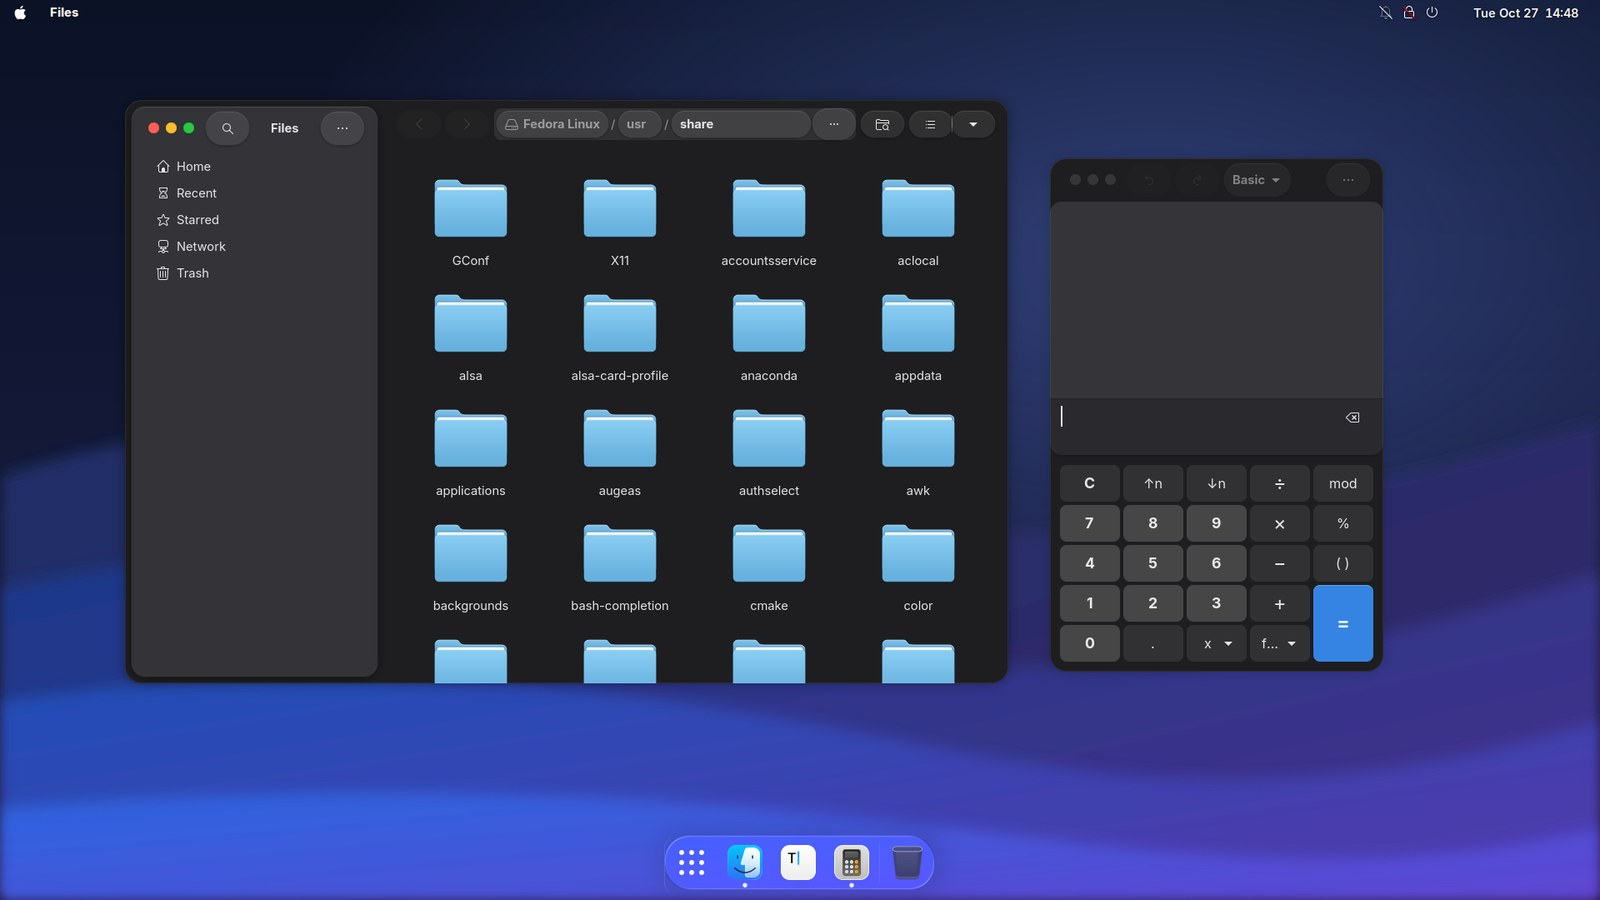
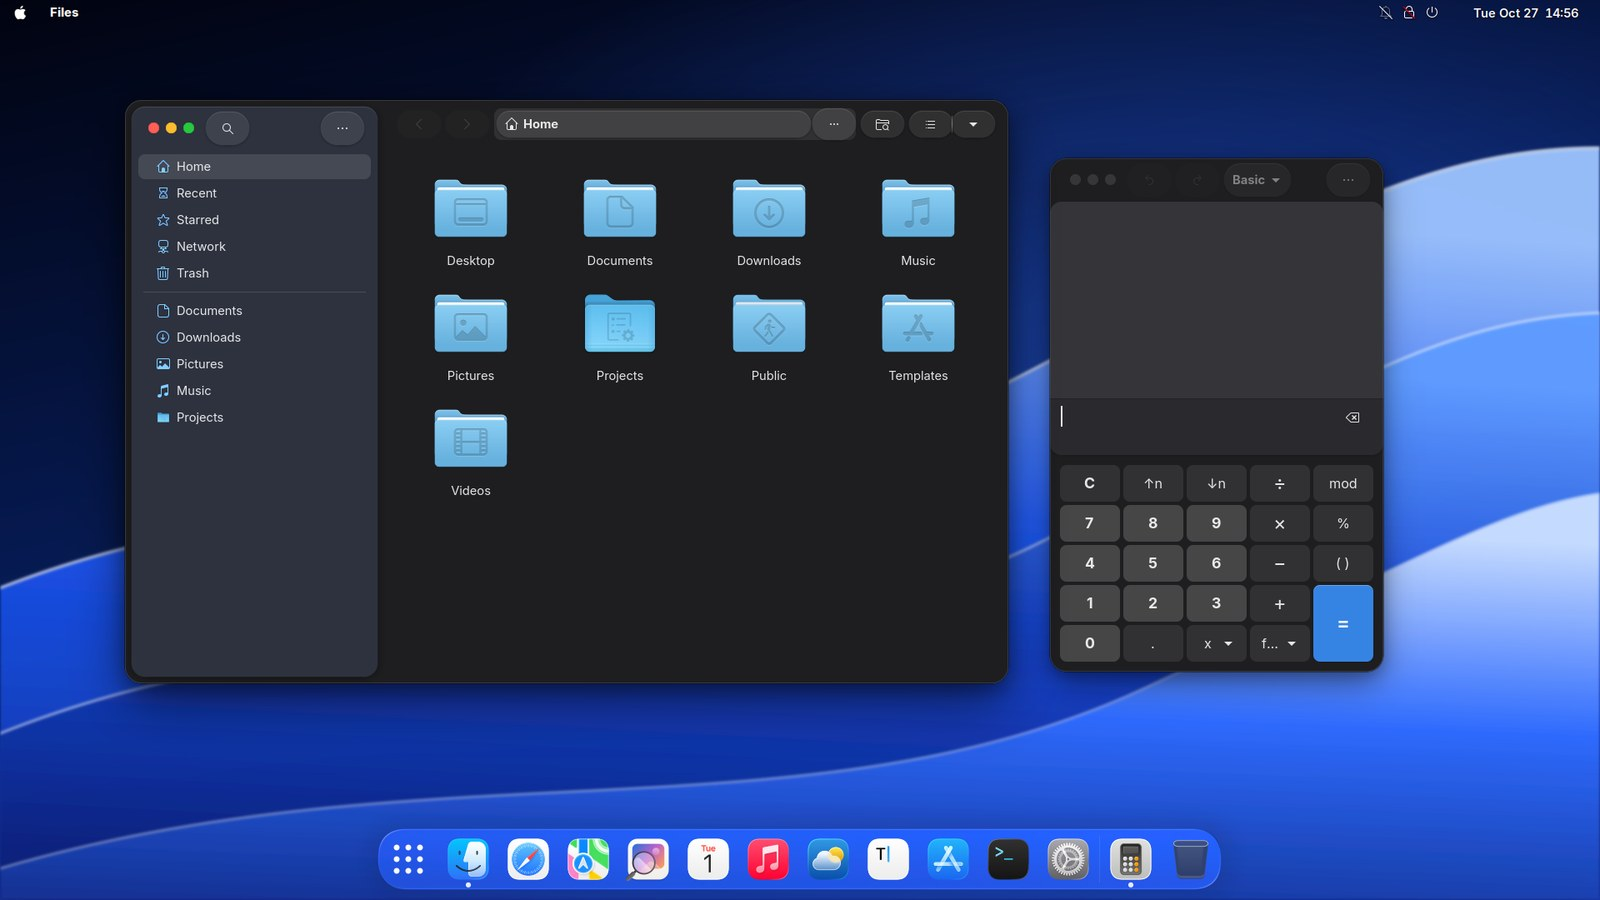
Make the desktop read as macOS at a glance
The previous build styled widgets well but still looked like GNOME from
across the room. Fix the things that carry the overall impression:

- New "Tahoe Glass" wallpapers (original, generated by
  tools/gen-wallpaper.py).
- Fill the Dock in macOS order from the apps that are installed, with
  56px icons.
- Apply the large soft window shadows that were defined but unused.
- Tint Finder sidebar symbols with the accent colour, give sidebars a cool
  vibrancy-like tint and hide the title inside them.

Claude-Session: https://claude.ai/code/session_011BoBWEw2GanzqC9se7ZuWP

diff --git a/src/sass/_colors.scss b/src/sass/_colors.scss
@@ -58,10 +58,16 @@ $capsule-bg-active:   pick(rgba(0, 0, 0, 0.06), rgba(255, 255, 255, 0.20));
 $capsule-edge:        pick(rgba(0, 0, 0, 0.08), rgba(255, 255, 255, 0.10));
 $capsule-highlight:   pick(rgba(255, 255, 255, 0.90), rgba(255, 255, 255, 0.10));
 $capsule-shadow:      pick(rgba(0, 0, 0, 0.10), rgba(0, 0, 0, 0.45));
-$sidebar-float-bg:    pick(rgba(228, 228, 234, 0.94), rgba(52, 52, 57, 0.94));
+// A cool tint stands in for macOS vibrancy (GTK cannot see the wallpaper).
+$sidebar-float-bg:    pick(rgba(225, 230, 241, 0.96), rgba(46, 51, 64, 0.96));
+// macOS windows float on a wide, soft shadow with a hairline edge.
 $window-shadow:        pick(
-  (0 22px 50px rgba(0, 0, 0, 0.22), 0 0 0 1px rgba(0, 0, 0, 0.18)),
-  (0 22px 50px rgba(0, 0, 0, 0.55), 0 0 0 1px rgba(0, 0, 0, 0.70))
+  (0 0 0 0.5px rgba(0, 0, 0, 0.22), 0 8px 24px rgba(0, 0, 0, 0.16), 0 24px 64px rgba(0, 0, 0, 0.22)),
+  (0 0 0 0.5px rgba(0, 0, 0, 0.85), inset 0 0 0 0.5px rgba(255, 255, 255, 0.12), 0 8px 24px rgba(0, 0, 0, 0.40), 0 24px 64px rgba(0, 0, 0, 0.50))
+);
+$window-shadow-backdrop: pick(
+  (0 0 0 0.5px rgba(0, 0, 0, 0.18), 0 6px 18px rgba(0, 0, 0, 0.10), 0 16px 40px rgba(0, 0, 0, 0.12)),
+  (0 0 0 0.5px rgba(0, 0, 0, 0.80), inset 0 0 0 0.5px rgba(255, 255, 255, 0.08), 0 6px 18px rgba(0, 0, 0, 0.30), 0 16px 40px rgba(0, 0, 0, 0.35))
 );
 $popover-shadow:       pick(
   (0 10px 28px rgba(0, 0, 0, 0.18), 0 0 0 0.5px rgba(0, 0, 0, 0.20)),

diff --git a/src/sass/gtk4/_widgets.scss b/src/sass/gtk4/_widgets.scss
@@ -23,6 +23,9 @@
 // --- Windows ---------------------------------------------------------------
 window.csd:not(.maximized):not(.fullscreen):not(.tiled):not(.tiled-top):not(.tiled-bottom):not(.tiled-left):not(.tiled-right) {
   border-radius: $radius-window;
+  box-shadow: var(--ohm-window-shadow);
+
+  &:backdrop { box-shadow: var(--ohm-window-shadow-backdrop); }
 }
 
 window.csd > .titlebar,
@@ -148,6 +151,9 @@ windowcontrols {
 
   > toolbarview > .top-bar headerbar { padding-left: 6px; }
 
+  // Finder shows no window title inside the sidebar.
+  > toolbarview > .top-bar headerbar windowtitle { opacity: 0; }
+
   &:dir(ltr) { border-right: none; }
   &:dir(rtl) { border-left: none; }
 }
@@ -174,6 +180,12 @@ placessidebar list {
       background-color: color-mix(in srgb, var(--accent-bg-color) 24%, transparent);
     }
   }
+}
+
+// Finder tints sidebar symbols with the accent colour.
+.navigation-sidebar > row image,
+placessidebar row image {
+  color: var(--accent-color);
 }
 
 .navigation-sidebar .heading,

diff --git a/src/sass/gtk4/_tokens.scss b/src/sass/gtk4/_tokens.scss
@@ -76,6 +76,7 @@
   --ohm-titlebutton-backdrop: #{css($titlebutton-backdrop)};
   --ohm-popover-shadow:    #{css($popover-shadow)};
   --ohm-window-shadow:     #{css($window-shadow)};
+  --ohm-window-shadow-backdrop: #{css($window-shadow-backdrop)};
   --ohm-capsule-bg:        #{css($capsule-bg)};
   --ohm-capsule-bg-hover:  #{css($capsule-bg-hover)};
   --ohm-capsule-bg-active: #{css($capsule-bg-active)};

diff --git a/tools/gen-wallpaper.py b/tools/gen-wallpaper.py
@@ -1,0 +1,62 @@
+#!/usr/bin/env python3
+# SPDX-License-Identifier: GPL-3.0-or-later
+# Generates the OhMyMac "Tahoe Glass" wallpapers (original artwork):
+#   python3 tools/gen-wallpaper.py src/wallpapers
+# Flowing glass ribbons over a deep gradient, in light and dark variants.
+import sys
+
+W, H = 3840, 2160
+
+
+def make(dark):
+    # Palette: deep navy → electric blue (dark); airy sky → cobalt (light).
+    if dark:
+        sky = [(0, "#01030f"), (0.55, "#061a52"), (1, "#0b3bb8")]
+        silk = [("#0b2a8f", "#1e5bff", "#9cc3ff"), ("#06135a", "#1747d6", "#5f9bff"), ("#0a1f73", "#2f6bff", "#c7dcff")]
+        shade, glow, edge = "#000214", "#2f6bff", 0.75
+    else:
+        sky = [(0, "#eaf3ff"), (0.5, "#a9cbff"), (1, "#3d7cf5")]
+        silk = [("#5b8ff9", "#cfe1ff", "#ffffff"), ("#2f6bff", "#8fb6ff", "#eaf2ff"), ("#1d4ed8", "#6ea0ff", "#ffffff")]
+        shade, glow, edge = "#0b2a8f", "#ffffff", 0.95
+
+    defs = ['<linearGradient id="sky" x1="0" y1="0" x2="0.4" y2="1">'
+            + "".join(f'<stop offset="{o}" stop-color="{c}"/>' for o, c in sky) + "</linearGradient>",
+            f'<radialGradient id="glow" cx="0.72" cy="0.38" r="0.5"><stop offset="0" stop-color="{glow}" stop-opacity="0.45"/>'
+            f'<stop offset="1" stop-color="{glow}" stop-opacity="0"/></radialGradient>']
+    for b in (3, 10, 30, 70):
+        defs.append(f'<filter id="b{b}" x="-20%" y="-20%" width="140%" height="140%"><feGaussianBlur stdDeviation="{b}"/></filter>')
+    # Each silk band shades across its thickness: dark underside, bright crest.
+    for i, (lo, mid, hi) in enumerate(silk):
+        defs.append(f'<linearGradient id="s{i}" x1="0" y1="1" x2="0.15" y2="0">'
+                    f'<stop offset="0" stop-color="{lo}"/><stop offset="0.6" stop-color="{mid}"/><stop offset="1" stop-color="{hi}"/></linearGradient>')
+
+    def band(top, bottom, grad, op=1.0, blur=3):
+        return f'<path d="{top} L {bottom} Z" fill="url(#{grad})" opacity="{op}" filter="url(#b{blur})"/>'
+
+    def crest(top, width, op):
+        return f'<path d="{top}" fill="none" stroke="#ffffff" stroke-width="{width}" stroke-linecap="round" opacity="{op}" filter="url(#b3)"/>'
+
+    t1 = "M-200 1500 C 700 1050 1500 1350 2250 1000 S 3400 250 4100 380"
+    t2 = "M-200 1850 C 800 1350 1700 1700 2500 1300 S 3500 700 4100 760"
+    t3 = "M-200 2150 C 900 1750 1900 2050 2750 1650 S 3700 1150 4100 1180"
+    body = ['<rect width="100%" height="100%" fill="url(#sky)"/>', '<rect width="100%" height="100%" fill="url(#glow)"/>',
+            # Shadows cast between the bands give the depth.
+            f'<path d="{t2} L 4100 2300 L -200 2300 Z" fill="{shade}" opacity="0.55" filter="url(#b70)" transform="translate(0,-60)"/>',
+            band(t1, "4100 2300 L -200 2300", "s0", 0.95),
+            crest(t1, 6, edge),
+            f'<path d="{t3} L 4100 2300 L -200 2300 Z" fill="{shade}" opacity="0.5" filter="url(#b70)" transform="translate(0,-70)"/>',
+            band(t2, "4100 2300 L -200 2300", "s1", 0.97),
+            crest(t2, 5, edge * 0.85),
+            f'<path d="M-200 2300 L 4100 2300 L 4100 1500 C 3500 1600 2600 2200 -200 2300 Z" fill="{shade}" opacity="0.35" filter="url(#b70)"/>',
+            band(t3, "4100 2300 L -200 2300", "s2", 0.98),
+            crest(t3, 4, edge * 0.7)]
+
+    return (f'<?xml version="1.0" encoding="UTF-8"?>\n<!-- OhMyMac "Tahoe Glass" — original artwork, CC BY-SA 4.0 -->\n'
+            f'<svg xmlns="http://www.w3.org/2000/svg" width="{W}" height="{H}" viewBox="0 0 {W} {H}">\n<defs>\n'
+            + "\n".join(defs) + "\n</defs>\n" + "\n".join(body) + "\n</svg>\n")
+
+
+out = sys.argv[1] if len(sys.argv) > 1 else "src/wallpapers"
+for dark in (False, True):
+    with open(f"{out}/ohmymac-{'dark' if dark else 'light'}.svg", "w") as f:
+        f.write(make(dark))

diff --git a/CHANGELOG.md b/CHANGELOG.md
@@ -7,6 +7,13 @@ All notable changes to this project are documented here. The format follows
 ## [1.2.0] — 2026-10-27
 
 ### Added
+- New "Tahoe Glass" wallpapers (original artwork, `tools/gen-wallpaper.py`):
+  deep blue silk bands with glossy crests.
+- A full macOS-order Dock (Finder, browser, Mail, Maps, Photos, Calendar,
+  Music, Weather, Notes, App Store, Terminal, System Settings) built from the
+  apps actually installed; 56 px icons.
+- Large soft macOS window shadows, accent-tinted Finder sidebar symbols, a
+  cool sidebar tint in place of vibrancy, no title inside sidebars.
 - Bundled **OhMyMac** Shell extension (GNOME 47–51) for a real Mac menu bar:
   the focused app's name in bold with New Window / Hide / Quit, the clock on
   the right edge, notification banners at the top right, no workspace pill.
